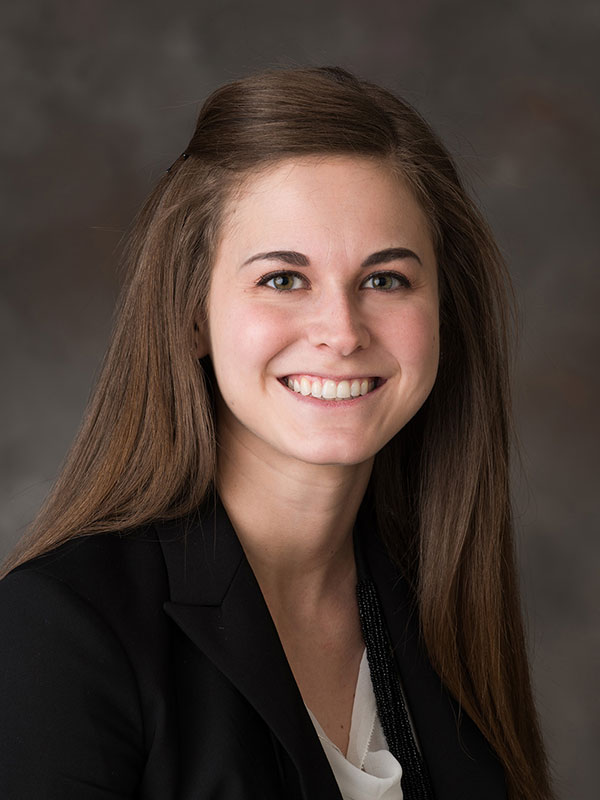
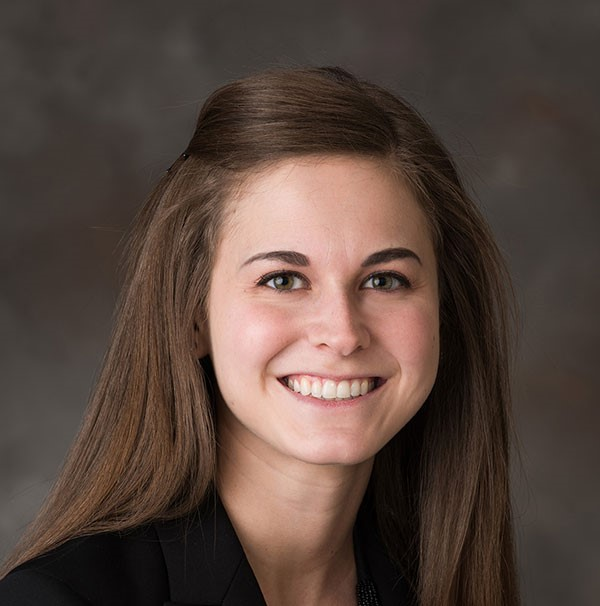
Add Images

diff --git a/index.html b/index.html
@@ -142,11 +142,21 @@
             <h2 class="testimonial-text">
               Great selection of foods, treats, and collars. They carry something for all different critters too.
             </h2>
+            <img
+              class="testimonial-image"
+              src="images/Kayla-Person.jpg"
+              alt="lady-profile"
+            />
           </div>
           <div class="carousel-item">
             <h2 class="testimonial-text">
               Helpful staff, recommended great food for my geriatric girls
             </h2>
+            <img
+              class="testimonial-image"
+              src="images/download.jpg"
+              alt="lady-profile"
+            />
           </div>
           
         <button
